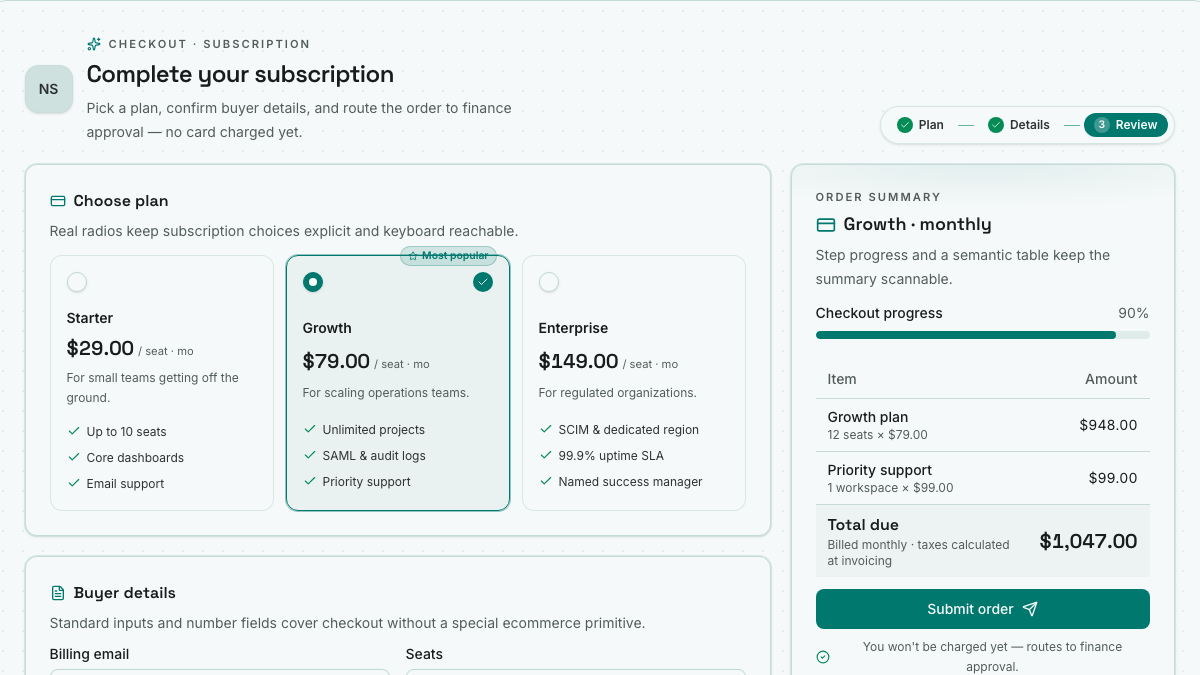
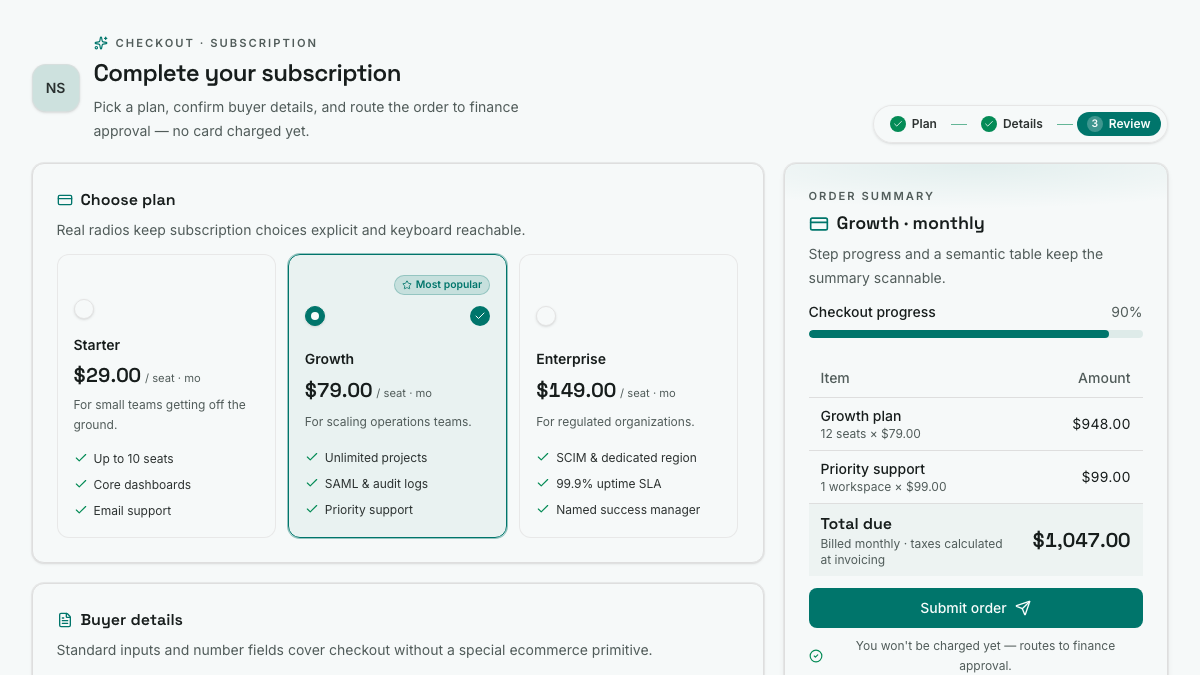
fix: separate checkout plan indicators

diff --git a/apps/showcase/src/examples/recipes/saas-checkout-order-summary.tsx b/apps/showcase/src/examples/recipes/saas-checkout-order-summary.tsx
@@ -312,21 +312,27 @@ function CheckoutFlow({ presentation = "embedded" }: RecipePreviewProps) {
                                   : "border-border/60 bg-background/60 hover:border-border"
                               }`}
                             >
-                              {item.popular ? (
-                                <span className="bg-primary/15 text-primary ring-primary/25 absolute -top-2.5 right-3 inline-flex items-center gap-1 rounded-full px-2 py-0.5 text-[0.65rem] font-semibold ring-1 ring-inset">
-                                  <Star
-                                    className="size-2.5"
-                                    aria-hidden="true"
-                                  />
-                                  Most popular
-                                </span>
-                              ) : null}
+                              <div className="flex min-h-5 items-center justify-end">
+                                {item.popular ? (
+                                  <span
+                                    data-checkout-popular
+                                    className="bg-primary/15 text-primary ring-primary/25 inline-flex items-center gap-1 rounded-full px-2 py-0.5 text-[0.65rem] font-semibold ring-1 ring-inset"
+                                  >
+                                    <Star
+                                      className="size-2.5"
+                                      aria-hidden="true"
+                                    />
+                                    Most popular
+                                  </span>
+                                ) : null}
+                              </div>
                               <div className="flex items-start justify-between gap-2">
                                 <FieldControl asChild>
                                   <RadioGroupItem value={value} />
                                 </FieldControl>
                                 {selected ? (
                                   <span
+                                    data-checkout-selected={value}
                                     aria-hidden="true"
                                     className="bg-primary text-primary-foreground grid size-5 shrink-0 place-items-center rounded-full"
                                   >

diff --git a/e2e/showcase-recipe-full-page.spec.ts b/e2e/showcase-recipe-full-page.spec.ts
@@ -395,4 +395,30 @@ test.describe("showcase full-page recipe shell", () => {
       )
       .toBe(true);
   });
+
+  test("separates Checkout popularity and selection indicators", async ({
+    page,
+  }) => {
+    await page.setViewportSize({ width: 390, height: 844 });
+    await page.goto("/recipes/saas-checkout-order-summary");
+
+    const popular = page.locator("[data-checkout-popular]");
+    const selected = page.locator('[data-checkout-selected="growth"]');
+    await expect(popular).toBeVisible();
+    await expect(selected).toBeVisible();
+
+    const popularBounds = await popular.boundingBox();
+    const selectedBounds = await selected.boundingBox();
+    expect(popularBounds).not.toBeNull();
+    expect(selectedBounds).not.toBeNull();
+    expect(selectedBounds!.y).toBeGreaterThanOrEqual(
+      popularBounds!.y + popularBounds!.height,
+    );
+
+    await page.getByRole("radio", { name: "Starter" }).check();
+    await expect(
+      page.locator('[data-checkout-selected="starter"]'),
+    ).toBeVisible();
+    await expect(popular).toBeVisible();
+  });
 });

diff --git a/docs/showcase/recipe-alignment-follow-up-issues.md b/docs/showcase/recipe-alignment-follow-up-issues.md
@@ -16,7 +16,7 @@
 ## Local Issue 2 — Checkout Plan-State Indicators
 
 - GitHub: [#407](https://github.com/parveshh/dethink-components/issues/407).
-- Status: Blocked by Local Issue 1 in the branch stack.
+- Status: Completed.
 - Give “Most popular” and the selected check distinct, non-overlapping layout positions.
 - Verify plan changes, keyboard radios, and desktop/mobile geometry.
 
